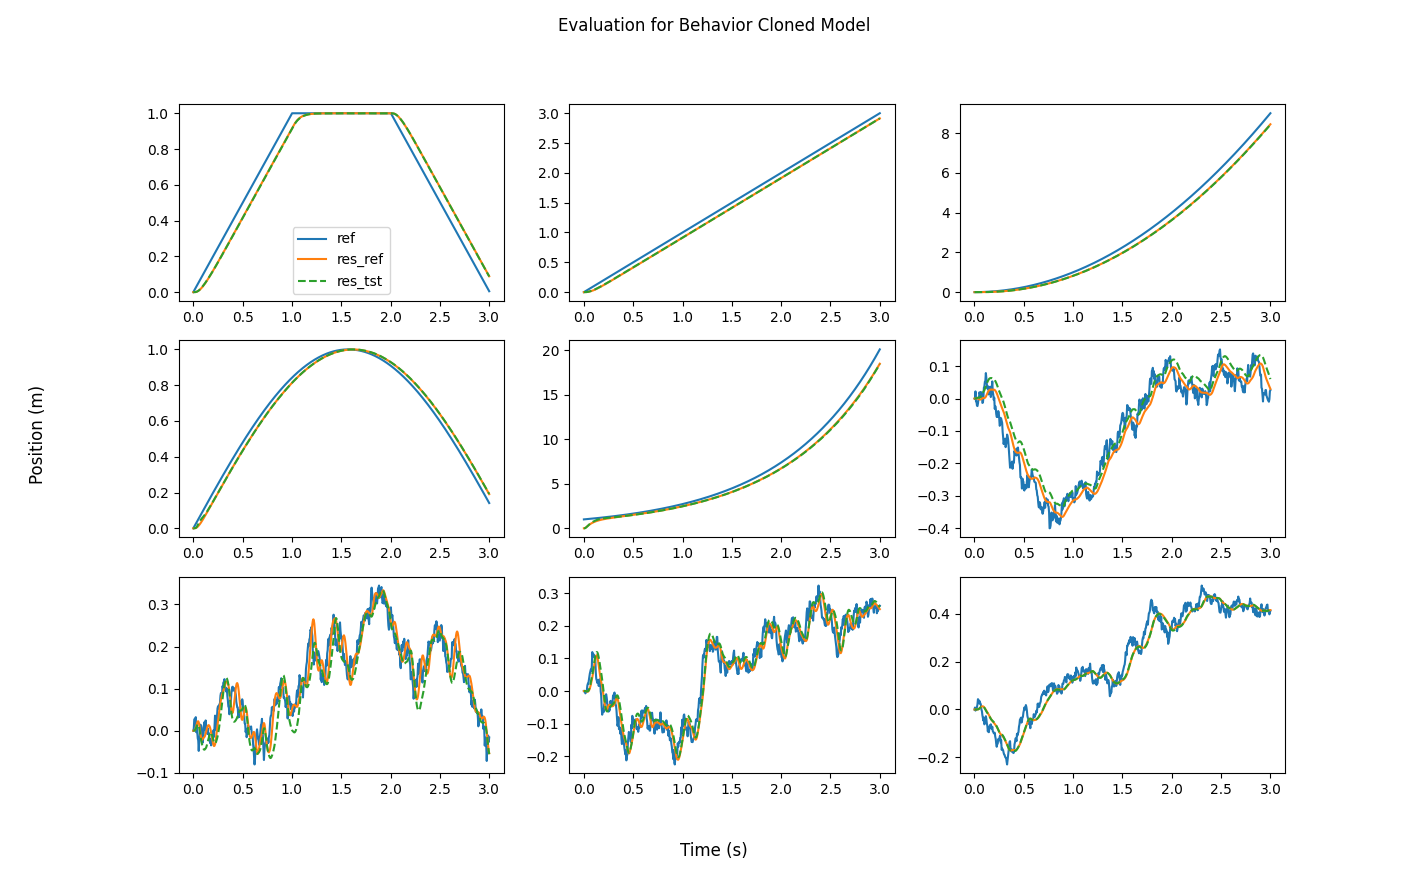
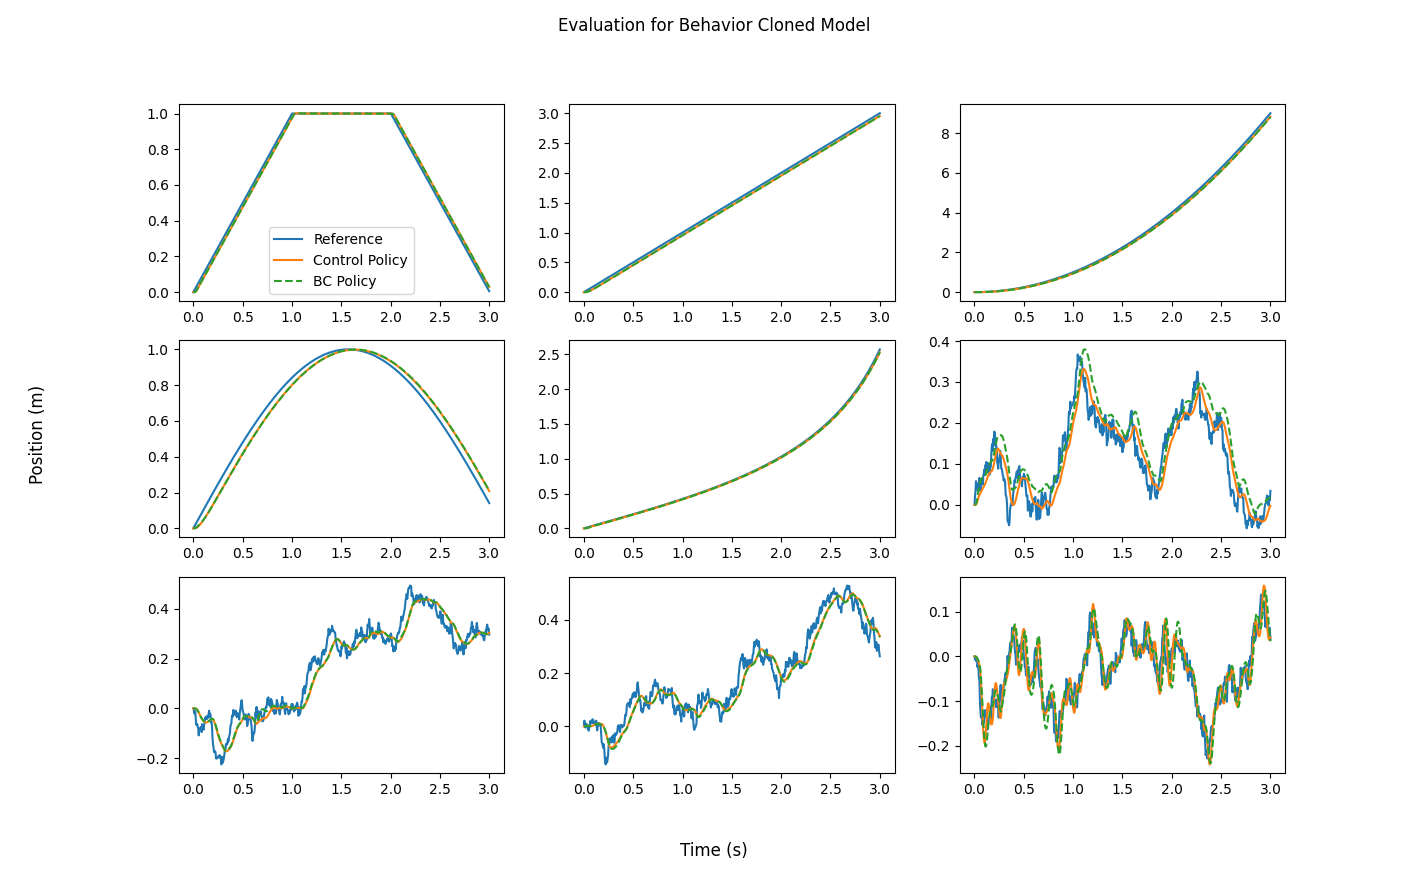
Okay, now we're done

diff --git a/src/experiment/evaluate.py b/src/experiment/evaluate.py
@@ -33,7 +33,12 @@ def generate_random_reference(T=0.005):
     return samples
 
 
-functions = [lambda x: x, lambda x: x * x, lambda x: np.sin(x), lambda x: np.exp(x)]
+functions = [
+    lambda x: x,
+    lambda x: x * x,
+    lambda x: np.sin(x),
+    lambda x: np.tan(0.4 * x),
+]
 
 references = (
     [reference]
@@ -82,7 +87,7 @@ def evaluate(policy_path, plot_path, title):
     t = get_timestamp()
 
     # Get initial tracking params
-    trk_params = generate_trk_params()
+    trk_params = TrackingParameters()
 
     fig, axs = plt.subplots(3, 3)
     fig.suptitle(title)
@@ -108,9 +113,9 @@ def evaluate(policy_path, plot_path, title):
         row = i // 3
         col = i % 3
 
-        axs[row, col].plot(t, r, label="ref")
-        axs[row, col].plot(t, response_ref, "-", label="res_ref")
-        axs[row, col].plot(t, response_test, "--", label="res_tst")
+        axs[row, col].plot(t, r, label="Reference")
+        axs[row, col].plot(t, response_ref, "-", label="Control Policy")
+        axs[row, col].plot(t, response_test, "--", label="BC Policy")
         if i == 0:
             axs[row, col].legend()
 
